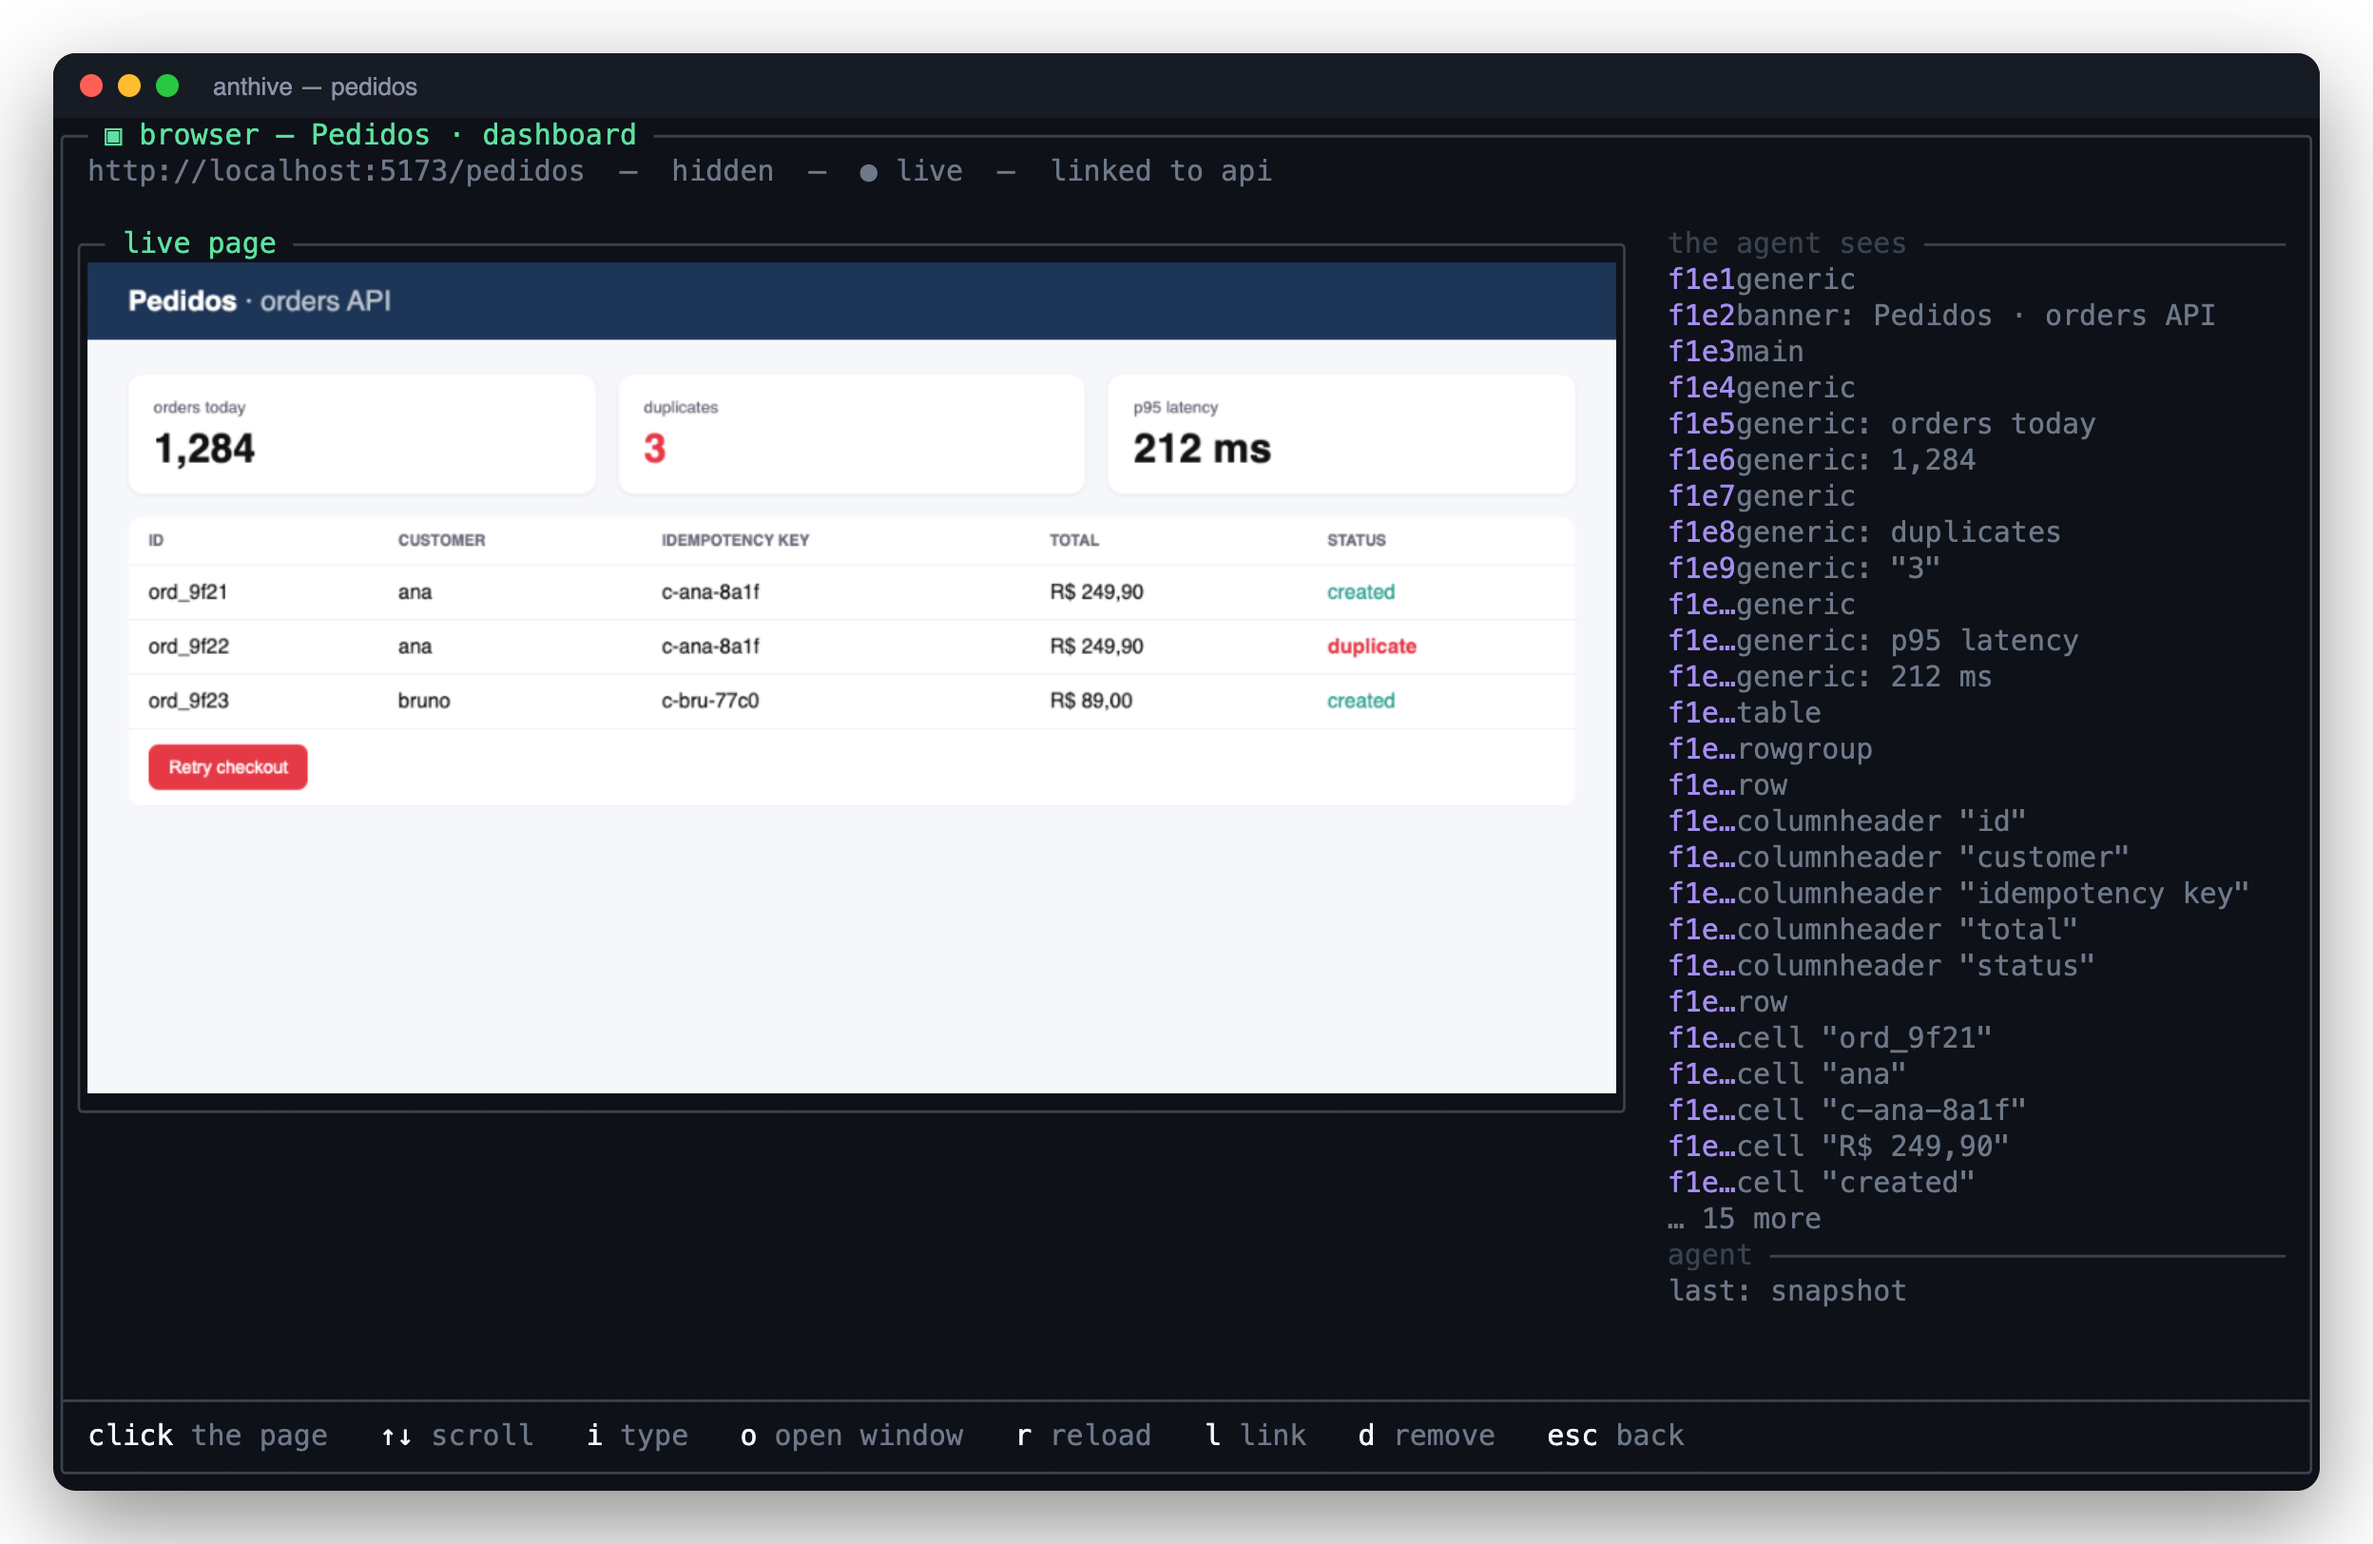
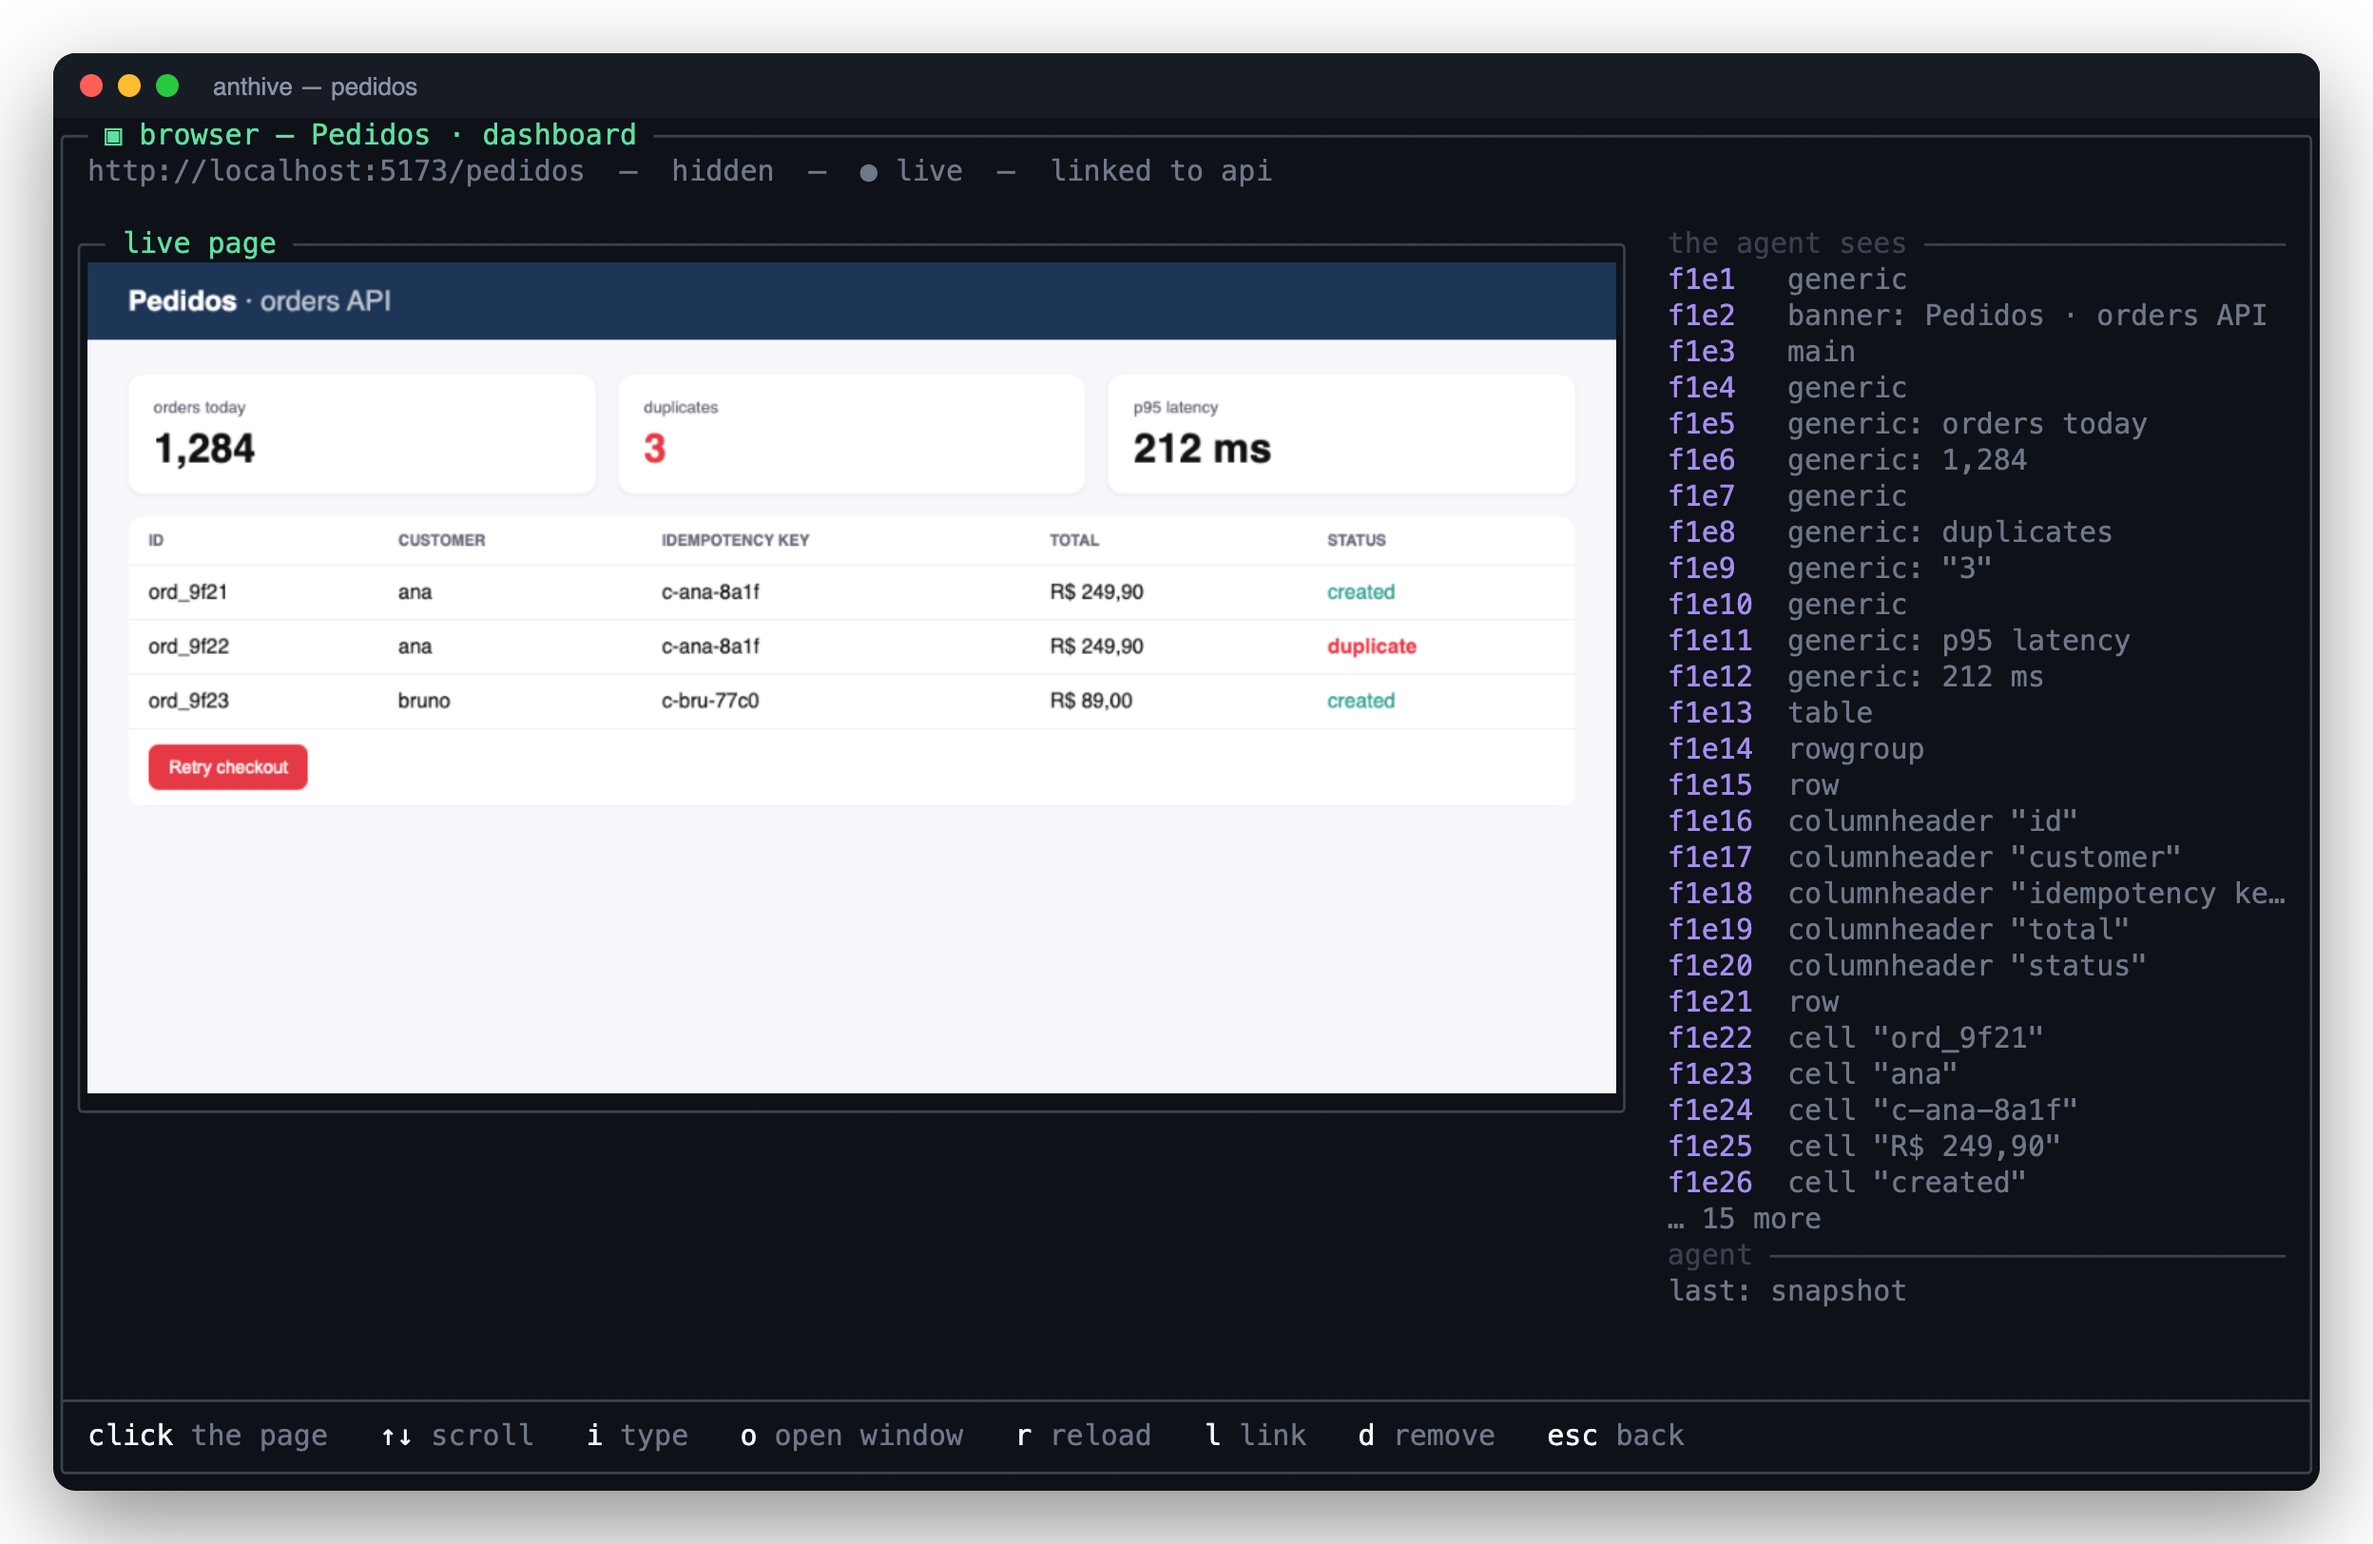
Browser screen: ref column sized by the longest ref

Changed region(s): [[0.7188, 0.1539, 0.9688, 0.7697]]

diff --git a/src/views/item.ts b/src/views/item.ts
@@ -159,7 +159,8 @@ export function renderBrowser(g: Grid, n: BrowserNode, s: BrowserScreen, status:
       const refs = snapshotRefs(st.snapshot);
       const rows = Math.max(1, g.H - 12);
       if (!refs.length) g.put(refsX, top + 1, fit(t('no snapshot yet'), w), C.dim);
-      for (let i = 0; i < Math.min(refs.length, rows); i++) { const r = refs[i]!; g.put(refsX, top + 1 + i, pad(r.ref, 4), C.link); g.put(refsX + 4, top + 1 + i, fit(r.text, w - 4), C.dim); }
+      const rw = Math.min(10, Math.max(4, ...refs.map((r) => r.ref.length + 2)));   // e2 or f1e22: the column fits the longest ref
+      for (let i = 0; i < Math.min(refs.length, rows); i++) { const r = refs[i]!; g.put(refsX, top + 1 + i, pad(r.ref, rw), C.link); g.put(refsX + rw, top + 1 + i, fit(r.text, w - rw), C.dim); }
       if (refs.length > rows) g.put(refsX, top + 1 + rows, fit(t('… {0} more', refs.length - rows), w), C.dim);
       const y2 = g.H - 7;
       head(y2, t('agent'));
